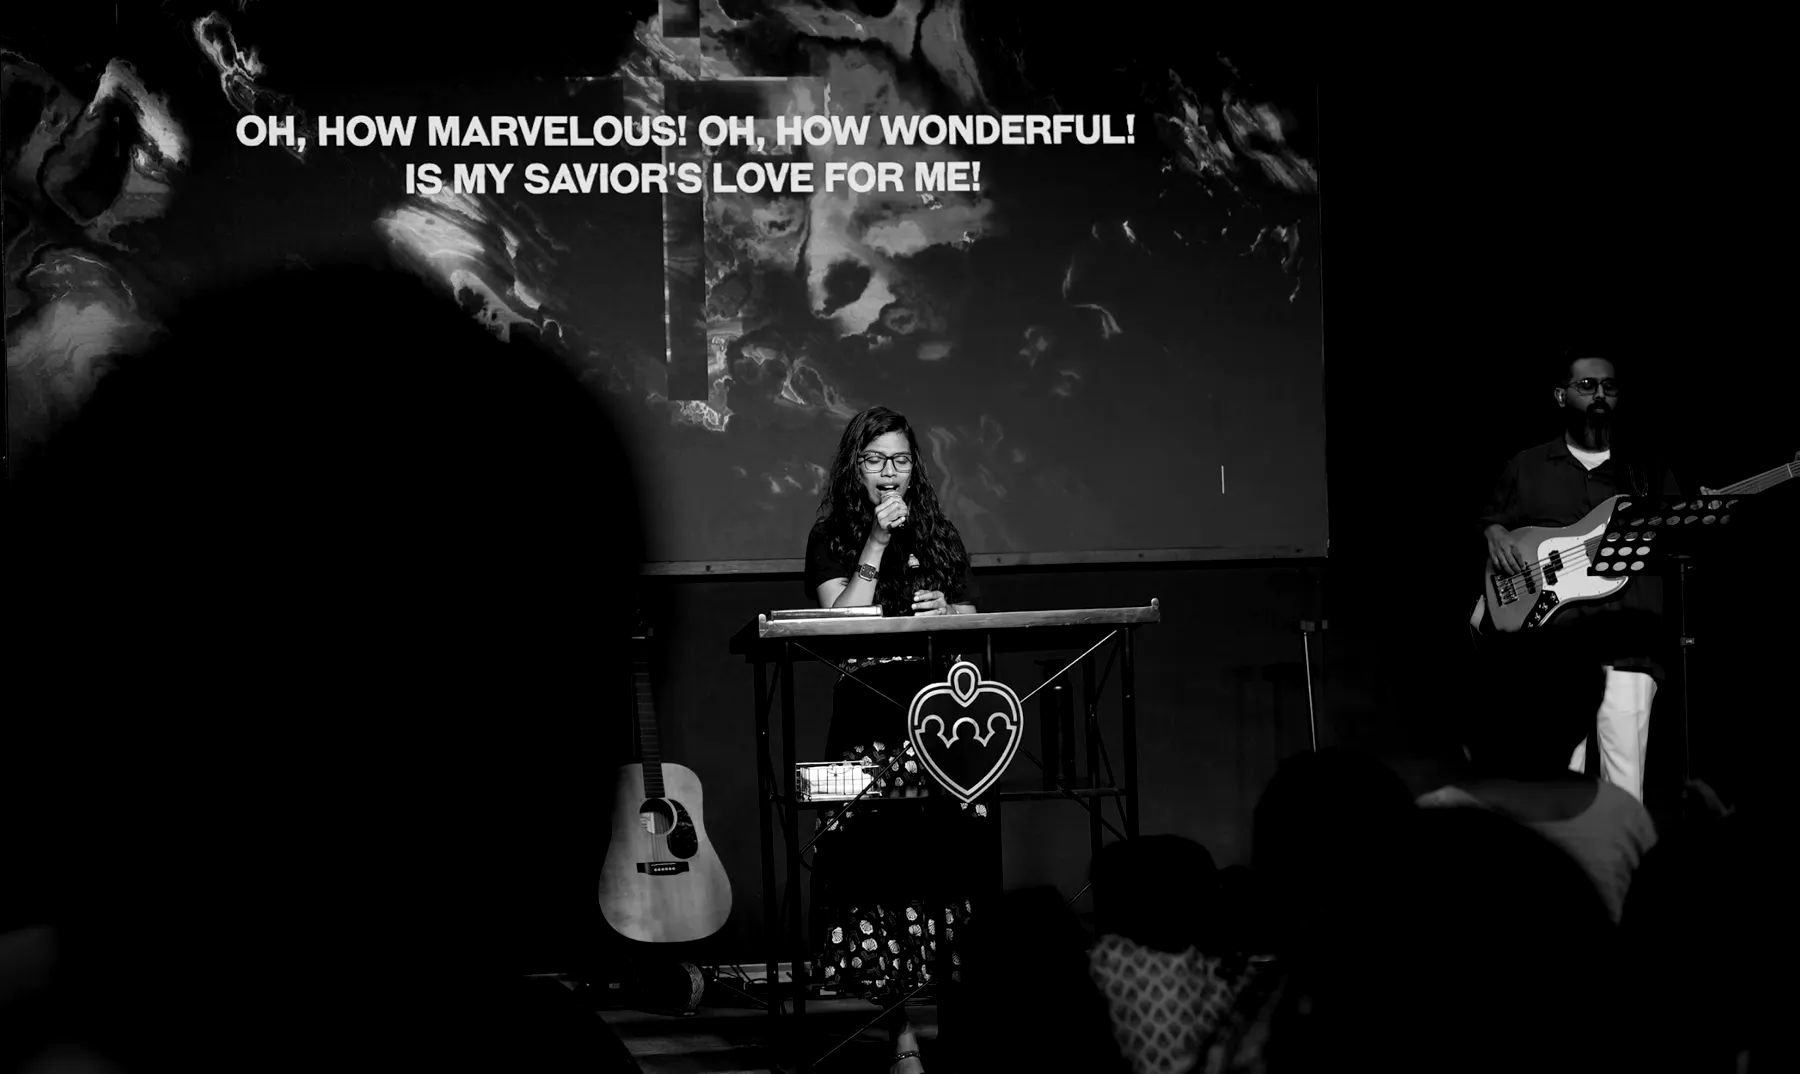
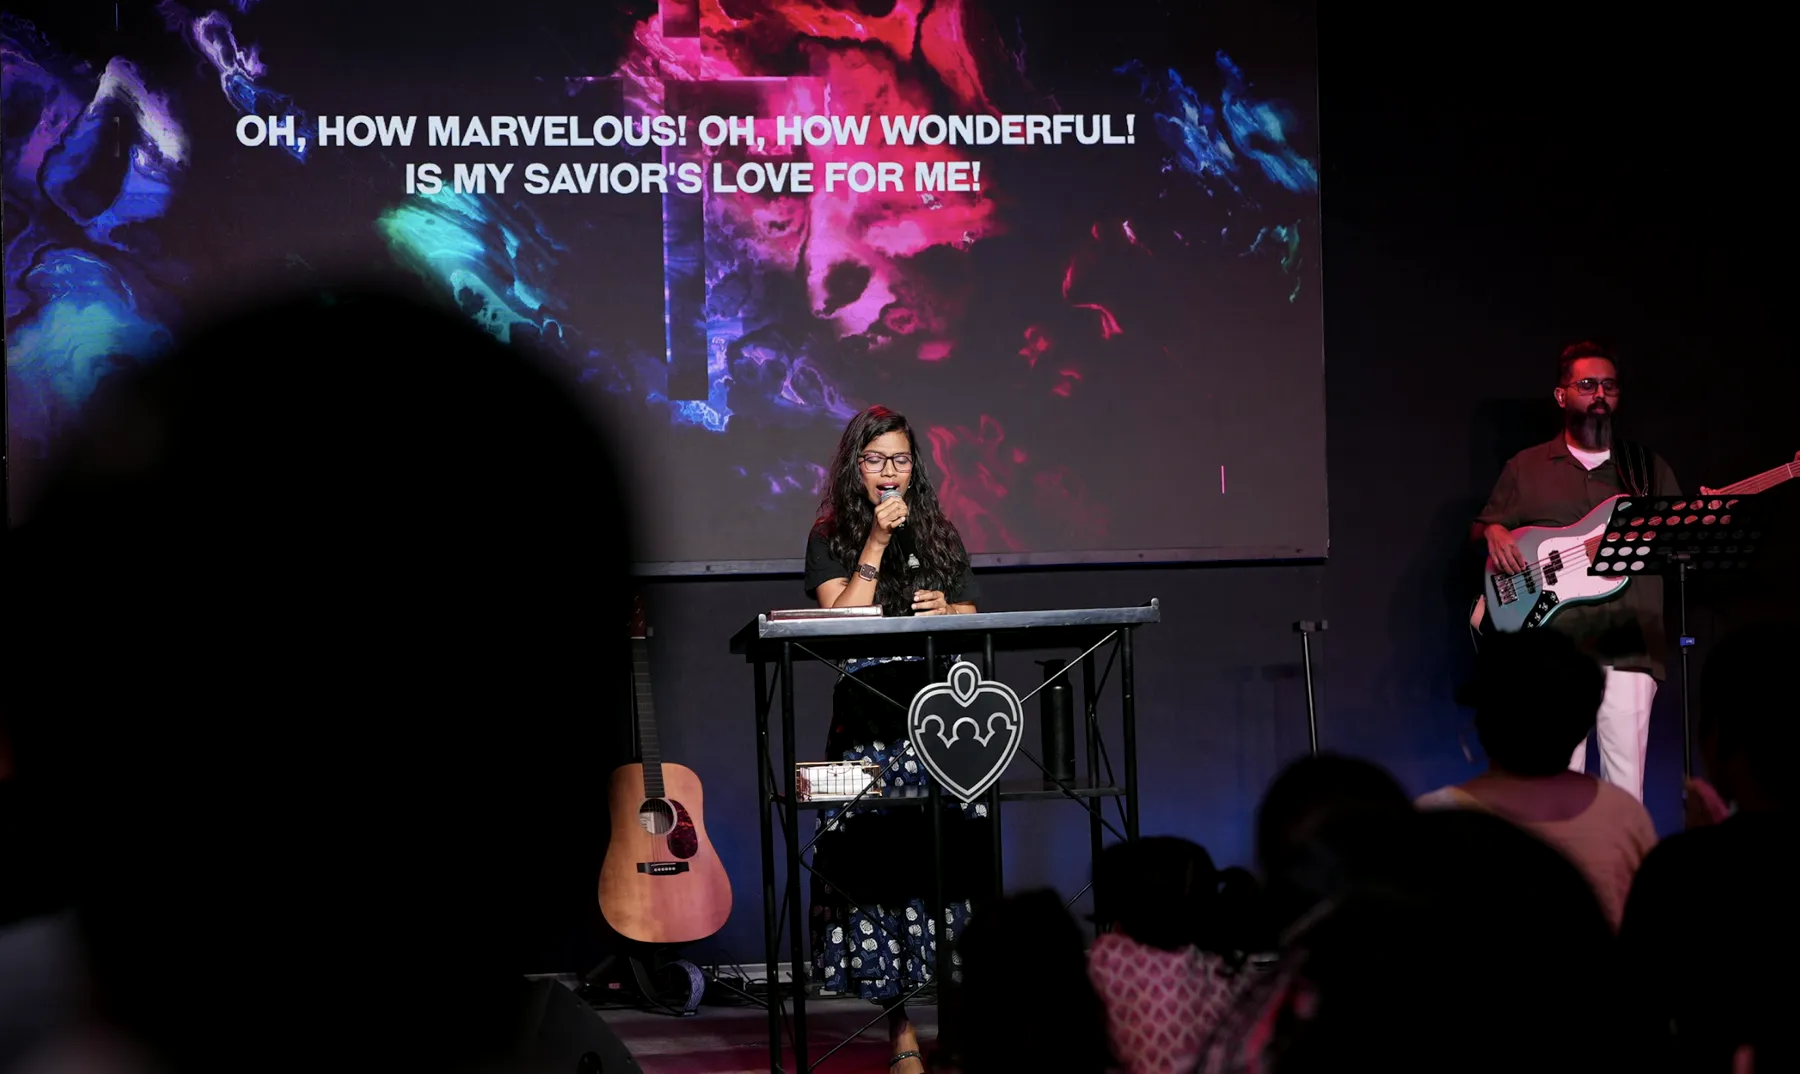
Continuous Bible-to-verse camera, gutter ribbon, colour photos
- The opened Bible settles flat and a crisp twin of the right-hand page is
  laid exactly over the 3D page; one camera then dollies onto Joshua 24:15,
  arriving at the page's natural size so the text stays sharp. The left
  page falls into soft focus, the red-letter stroke draws, and everything
  but the verse dims to lead into the next scene.
- Both pages share one layout in container units (.folio), so the 3D page
  and its flat twin match at any size.
- Ribbon bookmark moved to the gutter, on the right page's inner edge.
- Church photos re-exported in colour (leader portraits stay B/W; the
  originals are B/W).
- Fix: plate outlines set vector-effect on the svg, which is not inherited,
  so a 1-unit stroke in a 0-1 viewBox washed every plate photo grey.

diff --git a/app/Story.tsx b/app/Story.tsx
@@ -77,6 +77,77 @@ export default function Story({ children }: { children: React.ReactNode }) {
       };
       seatBook();
 
+      /* ---------- the close-up: a flat twin of the right-hand page, under one camera with the book ---------- */
+      const HANDOFF = 0.66; // the book lies flat from here; the twin takes over the page and the camera keeps moving
+      const camera = one('.camera');
+      const block = one('.pageblock');
+      const page = one('.page');
+      const v15 = one('#v15');
+      const clause = one('.hl-clause');
+      const sheet = clause.closest('.folio') as HTMLElement;
+      const hlWords = SplitText.create(clause, { type: 'words', tag: 'span' }).words as HTMLElement[];
+      const hl = { p: reduce ? 1 : 0 };
+      let bars: HTMLElement[] = [];
+      const paintBars = () => bars.forEach((b, i) => (b.style.transform = `scaleX(${Math.min(1, Math.max(0, hl.p * bars.length - i))})`));
+      // Red letter: one crimson marker stroke per line of "but as for me and my house…", drawn left to right.
+      const layoutBars = () => {
+        bars.forEach((b) => b.remove());
+        const box = sheet.getBoundingClientRect();
+        const k = box.width / sheet.offsetWidth || 1; // undo whatever scale the page is drawn at
+        const lines: DOMRect[][] = [];
+        hlWords.map((w) => w.getBoundingClientRect()).forEach((r) => {
+          const line = lines.at(-1);
+          if (line && Math.abs(line[0].top - r.top) < r.height / 2) line.push(r);
+          else lines.push([r]);
+        });
+        bars = lines.map((l) => {
+          const a = l[0];
+          const b = l[l.length - 1];
+          const bar = document.createElement('span');
+          bar.className = 'hl-bar';
+          Object.assign(bar.style, {
+            left: `calc(${(a.left - box.left) / k}px - .15em)`,
+            top: `${(a.top - box.top) / k}px`,
+            width: `calc(${(b.right - a.left) / k}px + .3em)`,
+            height: `${a.height / k}px`,
+          });
+          sheet.append(bar);
+          return bar;
+        });
+        paintBars();
+      };
+
+      let geo: { ox: number; oy: number; zoom: number; tx: number; ty: number } | null = null;
+      const cam = { t: 0 };
+      // Lay the flat page exactly over the 3D page, and work out where the camera has to end up.
+      const measure = () => {
+        gsap.set(camera, { x: 0, y: 0, scale: 1 });
+        const r = block.getBoundingClientRect();
+        const aspect = r.height / r.width;
+        gsap.set(page, { x: 0, y: 0, scale: 1, width: 1000, height: 1000 * aspect });
+        const column = Math.min(innerWidth * 0.86, 620); // how wide verse 15's column reads once the camera arrives
+        const P = (1000 * column) / v15.getBoundingClientRect().width;
+        gsap.set(page, { width: P, height: P * aspect, x: r.left, y: r.top, scale: r.width / P });
+        const v = v15.getBoundingClientRect();
+        const ox = v.left + v.width / 2;
+        const oy = v.top + Math.min(v.height, innerHeight * 0.7) / 2;
+        // Arriving at zoom P / r.width puts the page back at its natural size: the text is crisp, not a scaled-up bitmap.
+        geo = { ox, oy, zoom: P / r.width, tx: innerWidth / 2 - ox, ty: innerHeight / 2 - oy };
+        layoutBars();
+      };
+      const applyCamera = () => {
+        if (!geo) measure();
+        const g = geo!;
+        // Exponential zoom reads as a steady dolly; linear zoom would rush at the end.
+        gsap.set(camera, { transformOrigin: `${g.ox}px ${g.oy}px`, scale: g.zoom ** cam.t, x: g.tx * cam.t, y: g.ty * cam.t });
+      };
+      const onCameraRefresh = () => {
+        geo = null;
+        if (cam.t > 0) applyCamera();
+      };
+      ScrollTrigger.addEventListener('refresh', onCameraRefresh);
+      off.push(() => ScrollTrigger.removeEventListener('refresh', onCameraRefresh));
+
       let intro: gsap.core.Timeline | undefined;
       let heroTl: gsap.core.Timeline | undefined;
       if (!reduce) {
@@ -123,67 +194,21 @@ export default function Story({ children }: { children: React.ReactNode }) {
           .to(book, { xPercent: 50, duration: 0.14, ease: 'power2.inOut' }, 0.28)
           .to('.cover', { rotationY: -179.6, duration: 0.14, ease: 'power2.inOut' }, 0.28)
           .to('.leaf', { rotationY: -179.4, z: (i) => depth() / 2 + 1 + i * 0.5, duration: 0.1, stagger: 0.035, ease: 'power2.inOut' }, 0.4)
-          .to(book, { rotationX: 14, rotationZ: 0, scale: 1.2, duration: 0.1, ease: 'power1.inOut' }, 0.56)
-          .to('.scene', { scale: 7, duration: 0.12, ease: 'power2.in' }, 0.65)
-          .to('#book .contours', { autoAlpha: 0, duration: 0.08 }, 0.65)
-          .fromTo('.page-layer', { autoAlpha: 0 }, { autoAlpha: 1, duration: 0.05 }, 0.73)
-          .fromTo('.page', { scale: 1.6 }, { scale: 1, duration: 0.1, ease: 'power2.out' }, 0.73)
-          .to('.page', { scale: 1.1, duration: 0.2 }, 0.83)
-          .fromTo('.page-caption', { autoAlpha: 0, y: 20 }, { autoAlpha: 1, y: 0, duration: 0.05 }, 0.86)
+          // The book settles flat, facing the camera, so its right page is a true rectangle on screen.
+          .to(book, { rotationX: 0, rotationZ: 0, scale: 1.12, duration: 0.1, ease: 'power2.inOut' }, 0.56)
+          // One continuous move: the twin page appears exactly over the 3D page, then a single camera carries both.
+          .set('.page-layer', { autoAlpha: 1 }, HANDOFF)
+          .to(cam, { t: 1, duration: 0.2, ease: 'power2.inOut', onUpdate: applyCamera }, HANDOFF)
+          .fromTo('.scene', { filter: 'blur(0px)' }, { filter: 'blur(5px)', duration: 0.2, ease: 'power2.in' }, HANDOFF)
+          .to('#book .contours', { autoAlpha: 0, duration: 0.1 }, HANDOFF)
+          .to(hl, { p: 1, duration: 0.08, onUpdate: paintBars }, 0.87)
+          .fromTo('.page-caption', { autoAlpha: 0, y: 20 }, { autoAlpha: 1, y: 0, duration: 0.05 }, 0.9)
+          // Everything but the verse falls back, so the next scene reads as the same words, closer.
+          .to(page, { '--ink-a': 0.2, duration: 0.05 }, 0.95)
           .to({}, { duration: 0 }, 1);
       }
 
-      // Frame the close-up on verse 15 (the page is wider and taller than the screen).
-      const page = one('.page');
-      const v15 = one('#v15');
-      const centerPage = () => {
-        const col = v15.offsetParent as HTMLElement;
-        // On a phone the verse is wider than the screen, so pin its left edge 20px in instead of centring it.
-        const x = col.offsetLeft + v15.offsetLeft + (innerWidth < 700 ? innerWidth / 2 - 20 : v15.offsetWidth / 2);
-        const y = col.offsetTop + v15.offsetTop + v15.offsetHeight * 0.65;
-        gsap.set(page, { x: innerWidth / 2 - x, y: innerHeight / 2 - y, transformOrigin: `${x}px ${y}px` });
-      };
-      centerPage();
-      ScrollTrigger.addEventListener('refreshInit', centerPage);
       ScrollTrigger.addEventListener('refresh', seatBook);
-
-      // Red letter: a crimson marker stroke drawn one line at a time across "but as for me and my house…".
-      const clause = one('.hl-clause');
-      SplitText.create(clause, {
-        type: 'words', tag: 'span', autoSplit: true,
-        onSplit: (s) => {
-          const host = clause.closest('.page-col') as HTMLElement;
-          host.querySelectorAll('.hl-bar').forEach((b) => b.remove());
-          const box = host.getBoundingClientRect();
-          const k = box.width / host.offsetWidth || 1;
-          const lines: DOMRect[][] = [];
-          (s.words as HTMLElement[]).map((w) => w.getBoundingClientRect()).forEach((r) => {
-            const line = lines.at(-1);
-            if (line && Math.abs(line[0].top - r.top) < r.height / 2) line.push(r);
-            else lines.push([r]);
-          });
-          const bars = lines.map((l) => {
-            const a = l[0];
-            const b = l[l.length - 1];
-            const bar = document.createElement('span');
-            bar.className = 'hl-bar';
-            Object.assign(bar.style, {
-              left: `calc(${(a.left - box.left) / k}px - .15em)`,
-              top: `${(a.top - box.top) / k}px`,
-              width: `calc(${(b.right - a.left) / k}px + .3em)`,
-              height: `${a.height / k}px`,
-            });
-            host.append(bar);
-            return bar;
-          });
-          if (!heroTl) return;
-          // Drawn inside the hero's own scrubbed timeline. A separate trigger keyed off the pinned
-          // section would get the pin's spacing added twice and start a whole stage late.
-          const draw = gsap.fromTo(bars, { scaleX: 0 }, { scaleX: 1, ease: 'none', duration: 0.16 / bars.length, stagger: 0.16 / bars.length });
-          heroTl.add(draw, 0.8);
-          return draw;
-        },
-      });
 
       if (!reduce) {
         /* ---------- 2 · the verse: read word by word, then the house slides over it ---------- */
@@ -391,7 +416,6 @@ export default function Story({ children }: { children: React.ReactNode }) {
         lenis?.destroy();
         gsap.ticker.remove(raf);
         gsap.ticker.remove(tickContours);
-        ScrollTrigger.removeEventListener('refreshInit', centerPage);
         ScrollTrigger.removeEventListener('refresh', seatBook);
         document.documentElement.classList.remove('js', 'still', 'moving', 'menu-open');
       };

diff --git a/app/globals.css b/app/globals.css
@@ -131,7 +131,9 @@ a:hover .swap-row + .swap-row span { transform: none; }
 }
 .plate-fill img { width: 100%; height: 110%; object-fit: cover; }
 .plate:hover .plate-fill { inset: 4%; }
-.plate-line { position: absolute; inset: 0; width: 100%; height: 100%; fill: none; stroke: currentColor; stroke-opacity: 0.3; stroke-width: 1; vector-effect: non-scaling-stroke; pointer-events: none; }
+.plate-line { position: absolute; inset: 0; width: 100%; height: 100%; fill: none; stroke: currentColor; stroke-opacity: 0.3; pointer-events: none; }
+/* vector-effect is not inherited: on the svg it did nothing, and a 1-unit stroke in a 0–1 viewBox washed the whole photo grey */
+.plate-line path { stroke-width: 1; vector-effect: non-scaling-stroke; }
 
 /* ---------- 0 · loading veil ---------- */
 .veil {
@@ -255,8 +257,9 @@ main { position: relative; z-index: var(--z-section); }
   display: grid;
   place-items: center;
   perspective: 1800px;
-  transform-origin: calc(50% + var(--bw) * 0.34) calc(50% - var(--bh) * 0.3);
 }
+/* One camera over the 3D book and its flat twin: zooming this moves both, so they never come apart. */
+.camera { position: absolute; inset: 0; transform-origin: 0 0; }
 .book-tilt, .book { transform-style: preserve-3d; }
 .book { position: relative; width: var(--bw); height: var(--bh); }
 .face { position: absolute; }
@@ -282,9 +285,9 @@ main { position: relative; z-index: var(--z-section); }
 .edge-top, .edge-bottom { left: 0; width: calc(100% - 3px); height: var(--bd); background: var(--page-edge); box-shadow: inset 0 0 0 1px oklch(0.82 0 0); }
 .edge-top { top: calc(var(--bd) / -2 + 3px); transform: rotateX(90deg); }
 .edge-bottom { top: calc(100% - var(--bd) / 2 - 3px); transform: rotateX(-90deg); }
-.pageblock { inset: 3px 3px 3px 0; background: var(--page); overflow: hidden; transform: translateZ(calc(var(--bd) / 2 - 2px)); }
+.pageblock { inset: 0.6% 1% 0.6% 0; background: var(--page); overflow: hidden; transform: translateZ(calc(var(--bd) / 2 - 2px)); }
 .cover, .leaf { position: absolute; inset: 0; transform-origin: left center; transform-style: preserve-3d; }
-.leaf { inset: 3px 3px 3px 0; }
+.leaf { inset: 0.6% 1% 0.6% 0; }
 .cover-front, .cover-back, .leaf-front, .leaf-back { position: absolute; inset: 0; backface-visibility: hidden; }
 .cover-back, .leaf-back { transform: rotateY(180deg); }
 .cover-front {
@@ -311,18 +314,28 @@ main { position: relative; z-index: var(--z-section); }
 .leaf-front, .leaf-back { background: var(--page); box-shadow: inset 1px 0 0 oklch(0.85 0 0); }
 .ribbon {
   position: absolute;
-  left: 92.5%;
+  left: 2.5%; /* in the gutter: the right page's inner edge, beside the spine */
   top: 0;
-  width: calc(var(--bw) * 0.035);
+  width: 3.5%;
   height: calc(100% + var(--bh) * 0.12);
   background: var(--accent);
   clip-path: polygon(0 0, 100% 0, 100% 100%, 50% 96%, 0 100%);
 }
-.mini-page { position: absolute; inset: 7% 8%; overflow: hidden; font-family: var(--font-serif), serif; font-size: calc(var(--bw) * 0.022); line-height: 1.32; color: var(--ink); }
-.mini-head { display: flex; justify-content: center; padding-bottom: 0.4em; margin-bottom: 0.9em; border-bottom: 1px solid var(--ink); text-transform: uppercase; letter-spacing: 0.2em; font-size: 0.85em; }
-.mini-cols { columns: 2; column-gap: 7%; column-rule: 1px solid oklch(0.8 0 0); }
-.mini-cols p { text-align: justify; hyphens: auto; }
-.mini-cols sup { font-size: 0.6em; line-height: 0; }
+/* A Bible page, sized only in container units: the 3D page and its flat twin lay out identically at any size. */
+.pageblock, .leaf-front, .leaf-back, .page { container-type: inline-size; }
+.folio {
+  position: absolute;
+  inset: 7% 7.5% 6% 8.5%;
+  overflow: hidden;
+  font-family: var(--font-serif), Georgia, serif;
+  font-size: 2.3cqw;
+  line-height: 1.32;
+  color: oklch(0.16 0 0 / var(--ink-a, 1));
+}
+.folio-head { display: flex; justify-content: space-between; margin-bottom: 1.1em; padding-bottom: 0.35em; border-bottom: 0.2cqw solid; font-size: 0.8em; letter-spacing: 0.16em; text-transform: uppercase; }
+.folio-cols { columns: 2; column-gap: 6cqw; column-rule: 0.15cqw solid oklch(0.8 0 0); }
+.folio p { margin-bottom: 0.15em; text-align: justify; hyphens: auto; }
+.folio sup { font-size: 0.6em; line-height: 0; vertical-align: 0.6em; margin-right: 0.2em; font-weight: 500; }
 
 .hero-ui {
   position: absolute;
@@ -350,25 +363,11 @@ main { position: relative; z-index: var(--z-section); }
 .cap-body { position: absolute; right: var(--g); bottom: calc(var(--g) * 2); max-width: 24rem; font-size: var(--t-lead); line-height: 1.45; text-wrap: pretty; }
 .moving .hero-caption { visibility: visible; }
 
-/* the close-up page */
-.page-layer { position: absolute; inset: 0; overflow: hidden; background: var(--page); color: var(--ink); visibility: hidden; }
-.page {
-  position: absolute;
-  top: 0;
-  left: 0;
-  width: 54em;
-  padding: 3em 3.5em 3em 4em;
-  font-family: var(--font-serif), Georgia, serif;
-  font-size: clamp(18px, 1.15vw + 6px, 27px);
-  line-height: 1.42;
-  border-left: 1px solid var(--line-light);
-}
-.page-head { display: flex; justify-content: space-between; margin-bottom: 1.4em; padding-bottom: 0.4em; border-bottom: 1px solid var(--ink); font-size: 0.78em; letter-spacing: 0.14em; text-transform: uppercase; }
-.page-cols { display: grid; grid-template-columns: 1fr 1fr; }
-.page-col { position: relative; padding-right: 1.3em; }
-.page-col + .page-col { padding: 0 0 0 1.3em; border-left: 1px solid oklch(0.8 0 0); }
-.page-col p { margin-bottom: 0.2em; text-align: justify; hyphens: auto; }
-.page-col sup { font-size: 0.6em; line-height: 0; vertical-align: 0.6em; margin-right: 0.25em; font-weight: 500; }
+/* the flat twin of the right-hand page; JS sizes it and lays it over the 3D page */
+.page-layer { position: absolute; inset: 0; visibility: hidden; pointer-events: none; }
+.page { position: absolute; top: 0; left: 0; width: 1000px; aspect-ratio: 0.7215; background: var(--page); transform-origin: 0 0; --ink-a: 1; }
+.page-ribbon { position: absolute; top: 0; bottom: 0; left: 2.525%; width: 3.535%; background: var(--accent); }
+.hl-clause { color: var(--ink); }
 .sc { font-size: 0.8em; letter-spacing: 0.04em; }
 .dropcap { float: left; margin: 0.05em 0.12em 0 0; font-size: 3.3em; line-height: 0.82; font-weight: 500; }
 .hl-bar {
@@ -381,7 +380,7 @@ main { position: relative; z-index: var(--z-section); }
   transform-origin: left center;
   pointer-events: none;
 }
-.page-caption { position: absolute; left: var(--g); bottom: var(--g); font-size: 0.8rem; font-weight: 600; text-transform: uppercase; letter-spacing: 0.04em; }
+.page-caption { visibility: hidden; position: absolute; left: var(--g); bottom: var(--g); font-size: 0.8rem; font-weight: 600; text-transform: uppercase; letter-spacing: 0.04em; }
 
 /* ---------- 2 · the verse ---------- */
 .verse { position: relative; z-index: 1; height: 100vh; display: grid; align-items: center; overflow: hidden; }
@@ -537,7 +536,7 @@ main { position: relative; z-index: var(--z-section); }
   .pulse, .svc-link line { animation: none; }
   .swap-row span, .plate-fill, .cta-flood { transition: none; }
 }
-.still .page-layer, .still .hero-caption { display: none; }
+.still .page-layer, .still .hero-caption, .still .page-caption { display: none; }
 .still .house { height: auto; }
 .still .house-inside { position: relative; height: 100vh; margin-top: 100vh; }
 .still .ministries { height: auto; }

diff --git a/app/page.tsx b/app/page.tsx
@@ -84,6 +84,14 @@ const Verses = ({ from, to, live }: { from: number; to: number; live?: boolean }
   </>
 );
 
+/** One Bible page. Sized entirely in container units, so the 3D page and the flat close-up lay out identically. */
+const Sheet = ({ from, to, live, head = true }: { from: number; to: number; live?: boolean; head?: boolean }) => (
+  <div className="folio">
+    {head && <p className="folio-head"><span>Joshua</span><span>24</span></p>}
+    <div className="folio-cols"><Verses from={from} to={to} live={live} /></div>
+  </div>
+);
+
 /* ---------- content ---------- */
 
 type Row = { word: string; img: string; copy: [string, string] } | { side: string; align: 'left' | 'right' };
@@ -176,6 +184,7 @@ export default function Home() {
         <section id="book" className="hero" data-section="book">
           <canvas className="contours" data-tone="ink" aria-hidden="true" />
 
+          <div className="camera">
           <div className="scene" aria-hidden="true">
             <div className="book-tilt">
               <div className="book">
@@ -185,12 +194,12 @@ export default function Home() {
                 <div className="face edge-bottom" />
                 <div className="face edge-fore" />
                 <div className="face pageblock">
-                  <div className="mini-page"><p className="mini-head">Joshua 24</p><div className="mini-cols"><Verses from={15} to={33} /></div></div>
+                  <Sheet from={15} to={33} />
                 </div>
                 {[0, 1, 2, 3, 4].map((i) => (
                   <div className="leaf" key={i} style={{ '--i': i } as React.CSSProperties}>
-                    <div className="leaf-front"><div className="mini-page"><div className="mini-cols"><Verses from={2 + i * 3} to={16 + i * 3} /></div></div></div>
-                    <div className="leaf-back"><div className="mini-page"><p className="mini-head">Joshua 24</p><div className="mini-cols"><Verses from={1} to={14} /></div></div></div>
+                    <div className="leaf-front"><Sheet from={2 + i * 3} to={16 + i * 3} head={false} /></div>
+                    <div className="leaf-back"><Sheet from={1} to={14} /></div>
                   </div>
                 ))}
                 <div className="cover">
@@ -200,6 +209,15 @@ export default function Home() {
                 <div className="ribbon" />
               </div>
             </div>
+          </div>
+
+          {/* The flat twin of the right-hand page: laid exactly over the 3D page, then the camera keeps going. */}
+          <div className="page-layer" aria-label="Joshua chapter 24, verses 15 to 33, King James Version">
+            <div className="page">
+              <Sheet from={15} to={33} live />
+              <span className="page-ribbon" aria-hidden="true" />
+            </div>
+          </div>
           </div>
 
           <div className="hero-ui">
@@ -243,16 +261,7 @@ export default function Home() {
             <p className="cap-body">Handed down through generations, read at tables and bedsides, worn soft at the edges. Still open. Still speaking.</p>
           </div>
 
-          <div className="page-layer" aria-label="Joshua chapter 24, verses 15 to 33, King James Version">
-            <div className="page">
-              <p className="page-head"><span>Joshua</span><span>24</span></p>
-              <div className="page-cols">
-                <div className="page-col"><Verses from={15} to={24} live /></div>
-                <div className="page-col"><Verses from={25} to={33} /></div>
-              </div>
-            </div>
-            <p className="page-caption"><span className="accent">Red letter</span> · Joshua 24:15</p>
-          </div>
+          <p className="page-caption"><span className="accent">Red letter</span> · Joshua 24:15</p>
         </section>
 
         {/* 2 · THE VERSE */}
